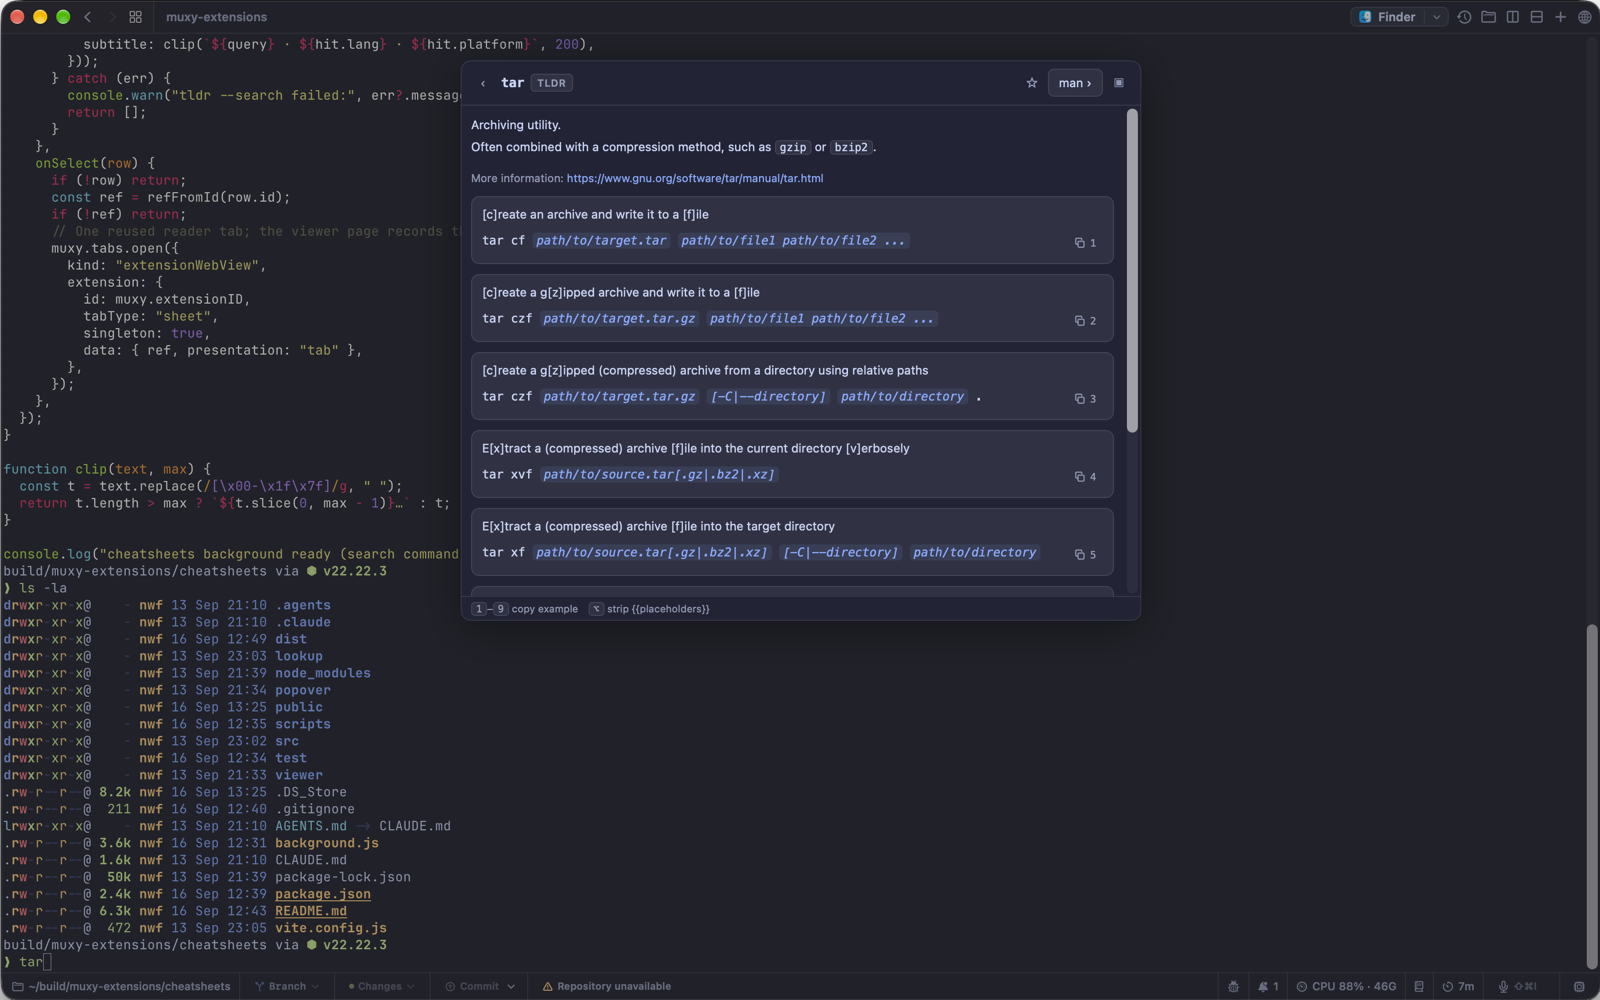
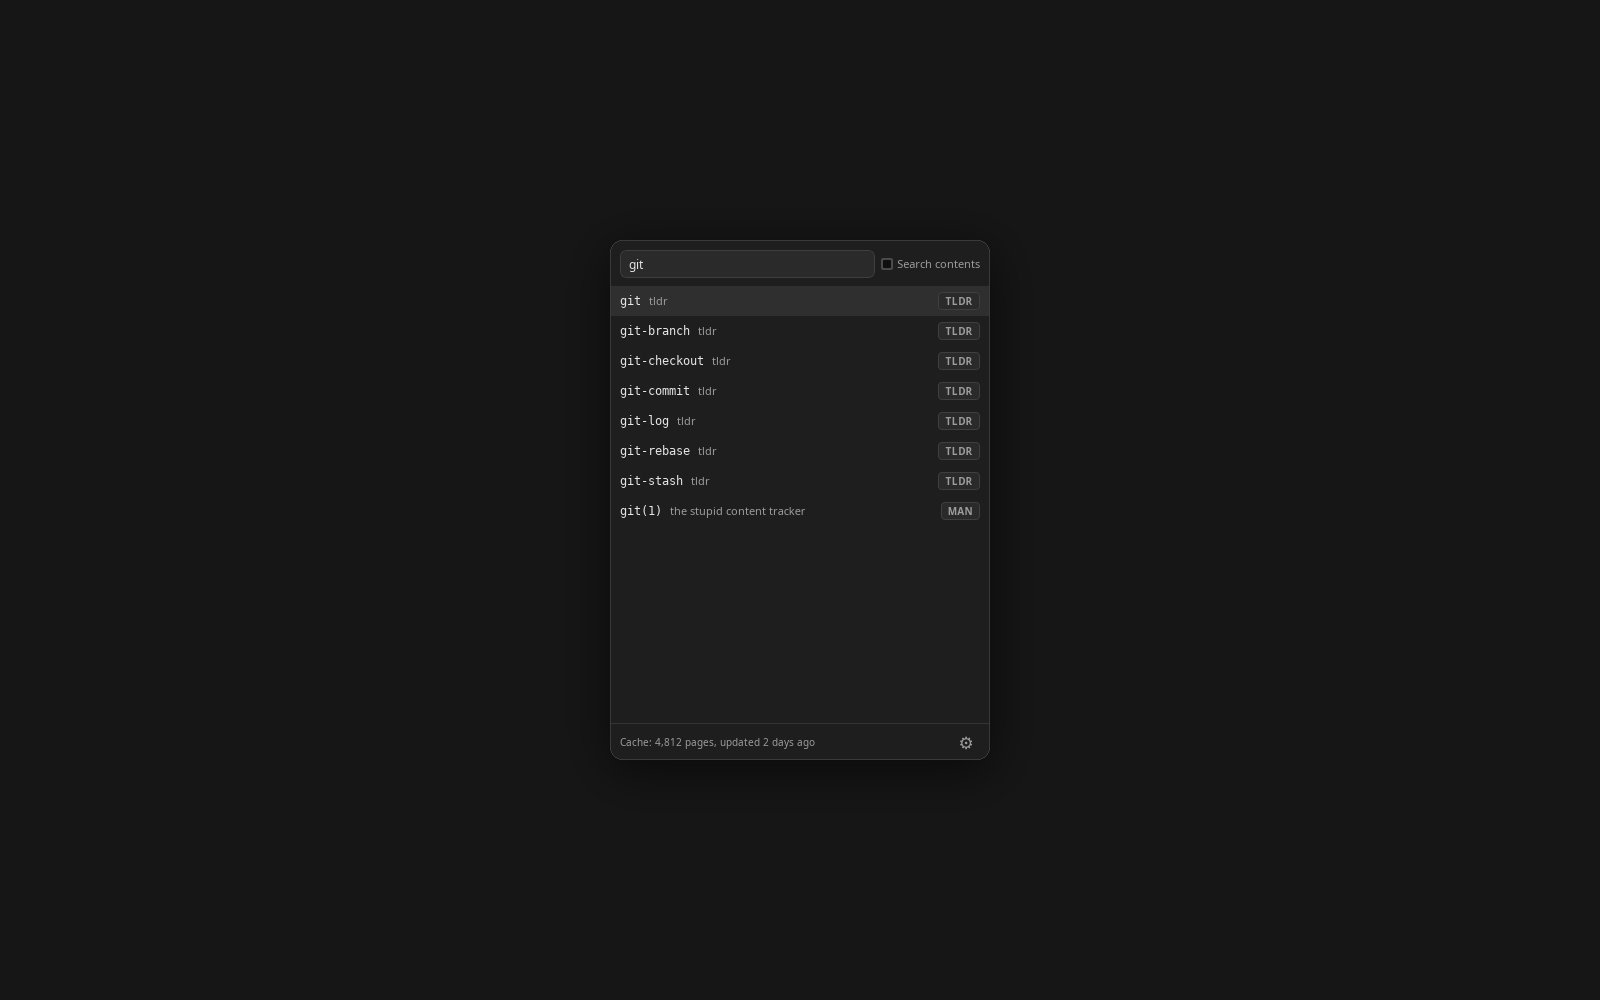
cheatsheets 1.0.1 (#26)
* cheatsheets 1.0.1: harness cases, credits, version bump

* cheatsheets: popover case searches git

* cheatsheets: replace listing screenshots with neutral renders

diff --git a/tools/harness/fixtures/cheatsheets.js b/tools/harness/fixtures/cheatsheets.js
@@ -1,0 +1,156 @@
+// Sample tldr and man data for the cheatsheets extension, served through atur.exec.
+(() => {
+  const h = window.__harness;
+
+  const TLDR_NAMES = [
+    "awk", "cat", "chmod", "cp", "curl", "cut", "df", "diff", "docker", "docker-compose", "du",
+    "find", "git", "git-branch", "git-checkout", "git-commit", "git-log", "git-rebase", "git-stash",
+    "grep", "gzip", "head", "jq", "kill", "ln", "ls", "make", "mkdir", "mv", "node", "npm", "ps",
+    "rsync", "scp", "sed", "sort", "ssh", "tail", "tar", "tmux", "uniq", "wc", "xargs",
+  ];
+
+  const MAN_ROWS = [
+    "tar(1) - manipulate tape archives", "tail(1) - display the last part of a file",
+    "tac(1) - concatenate and print files in reverse", "tee(1) - pipe fitting",
+    "tmux(1) - terminal multiplexer", "touch(1) - change file access and modification times",
+    "tr(1) - translate characters", "git(1) - the stupid content tracker", "grep(1) - file pattern searcher",
+    "open(2) - open or create a file for reading or writing", "ssh(1) - OpenSSH remote login client",
+  ];
+
+  const PAGES = {
+    tar: `# tar
+
+> Archiving utility.
+> Often combined with a compression method, such as \`gzip\` or \`bzip2\`.
+> More information: <https://www.gnu.org/software/tar>.
+
+- Create an archive and write it to a file:
+
+\`tar cf {{path/to/target.tar}} {{path/to/file1 path/to/file2 ...}}\`
+
+- Create a gzipped archive and write it to a file:
+
+\`tar czf {{path/to/target.tar.gz}} {{path/to/file1 path/to/file2 ...}}\`
+
+- Create a gzipped archive from a directory using relative paths:
+
+\`tar czf {{path/to/target.tar.gz}} --directory={{path/to/directory}} .\`
+
+- Extract a (compressed) archive file into the current directory verbosely:
+
+\`tar xvf {{path/to/source.tar[.gz|.bz2|.xz]}}\`
+
+- Extract a (compressed) archive file into the target directory:
+
+\`tar xf {{path/to/source.tar[.gz|.bz2|.xz]}} --directory={{path/to/directory}}\`
+
+- List the contents of a tar file verbosely:
+
+\`tar tvf {{path/to/source.tar}}\`
+
+- Extract files matching a pattern from an archive:
+
+\`tar xf {{path/to/source.tar}} --wildcards {{"*.html"}}\`
+`,
+    "git-stash": `# git stash
+
+> Stash local Git changes in a temporary area.
+> More information: <https://git-scm.com/docs/git-stash>.
+
+- Stash current changes, except new (untracked) files:
+
+\`git stash push -m {{optional_stash_message}}\`
+
+- Stash current changes, including new (untracked) files:
+
+\`git stash -u\`
+
+- Interactively select parts of changed files for stashing:
+
+\`git stash -p\`
+
+- List all stashes (shows stash name, related branch and message):
+
+\`git stash list\`
+
+- Show the changes as a patch between the stash (default is stash@{0}) and the commit back when stash entry was first created:
+
+\`git stash show -p {{stash@{0}}}\`
+
+- Apply a stash (default is the latest, named stash@{0}):
+
+\`git stash apply {{optional_stash_name_or_commit}}\`
+
+- Apply a stash (default is stash@{0}), and remove it from the stash list if applying doesn't cause conflicts:
+
+\`git stash pop {{optional_stash_name}}\`
+`,
+    docker: `# docker
+
+> Manage Docker containers and images.
+> Some subcommands such as \`docker run\` have their own usage documentation.
+> More information: <https://docs.docker.com/engine/reference/commandline/cli/>.
+
+- List all docker containers (running and stopped):
+
+\`docker ps --all\`
+
+- Start a container from an image, with a custom name:
+
+\`docker run --name {{container_name}} {{image}}\`
+
+- Start or stop an existing container:
+
+\`docker {{start|stop}} {{container_name}}\`
+
+- Pull an image from a docker registry:
+
+\`docker pull {{image}}\`
+
+- Open a shell inside of an already running container:
+
+\`docker exec --interactive --tty {{container_name}} {{sh}}\`
+
+- Remove a stopped container:
+
+\`docker rm {{container_name}}\`
+
+- Fetch and follow the logs of a container:
+
+\`docker logs --follow {{container_name}}\`
+`,
+  };
+
+  const ok = (stdout) => ({ stdout, stderr: "", exitCode: 0 });
+  const fail = (stderr) => ({ stdout: "", stderr, exitCode: 1 });
+
+  h.set("exec", async (argv) => {
+    const args = Array.isArray(argv) ? argv : [];
+    const cmd = args[0];
+    if (cmd === "pbpaste") return fail("");
+    if (cmd === "tldr") {
+      if (args.includes("--list") || args.includes("--list-all")) return ok(TLDR_NAMES.join("\n") + "\n");
+      if (args.includes("-i")) return ok("Cache: 4,812 pages, updated 2 days ago\n");
+      if (args.includes("--raw")) {
+        const page = PAGES[args[args.length - 1]];
+        return page ? ok(page) : fail("page not found");
+      }
+      return fail("");
+    }
+    if (cmd === "apropos") return ok(MAN_ROWS.join("\n") + "\n");
+    return fail("");
+  });
+
+  const sleep = (ms) => new Promise((resolve) => setTimeout(resolve, ms));
+  const until = async (test, tries = 100) => { for (let i = 0; i < tries && !test(); i += 1) await sleep(100); };
+  window.__cs = {
+    sleep, until,
+    type: async (text) => {
+      await until(() => document.querySelector("input[type=text]"));
+      const input = document.querySelector("input[type=text]");
+      input.value = text;
+      input.dispatchEvent(new Event("input", { bubbles: true }));
+      await until(() => document.querySelector("#results .row"));
+    },
+  };
+})();

diff --git a/tools/harness/fixtures/cheatsheets-popover.js b/tools/harness/fixtures/cheatsheets-popover.js
@@ -1,0 +1,10 @@
+// Popover: recents and favorites on the home view, then a search.
+window.addEventListener("load", async () => {
+  const { until, sleep, type } = window.__cs;
+  await atur.storage.set("favorites", [{ source: "tldr", name: "git-stash" }, { source: "tldr", name: "docker" }, { source: "man", name: "tmux", section: "1" }]);
+  await atur.storage.set("recents", [{ source: "tldr", name: "tar" }, { source: "man", name: "grep", section: "1" }, { source: "tldr", name: "jq" }]);
+  await sleep(300);
+  await type("git");
+  await sleep(500);
+  window.__ready = true;
+});

diff --git a/tools/harness/fixtures/cheatsheets-lookup.js b/tools/harness/fixtures/cheatsheets-lookup.js
@@ -1,0 +1,10 @@
+// Lookup modal: type "tar", open the tldr page.
+window.addEventListener("load", async () => {
+  const { until, sleep, type } = window.__cs;
+  await sleep(300);
+  await type("tar");
+  document.querySelector("#results .row").click();
+  await until(() => document.querySelector(".example"));
+  await sleep(500);
+  window.__ready = true;
+});

diff --git a/tools/harness/fixtures/cheatsheets-popover-read.js b/tools/harness/fixtures/cheatsheets-popover-read.js
@@ -1,0 +1,10 @@
+// Popover: reading a tldr page.
+window.addEventListener("load", async () => {
+  const { until, sleep, type } = window.__cs;
+  await sleep(300);
+  await type("docker");
+  document.querySelector("#results .row").click();
+  await until(() => document.querySelector(".example"));
+  await sleep(500);
+  window.__ready = true;
+});

diff --git a/extensions/cheatsheets/src/shared/parse.js b/extensions/cheatsheets/src/shared/parse.js
@@ -1,5 +1,5 @@
 // Pure parsers for everything the extension reads from subprocesses.
-// No DOM, no muxy — unit-testable under node --test.
+// No DOM, no host API — unit-testable under node --test.
 
 // ---------------------------------------------------------------------------
 // tldr page (raw markdown, per the tldr page spec)

diff --git a/extensions/cheatsheets/README.md b/extensions/cheatsheets/README.md
@@ -110,3 +110,7 @@ npm test          # parser / sanitizer / ref-codec unit tests
 
 Load the folder via **Load Unpacked** in Atur Terminal's Extensions modal; after a
 rebuild, click **Reload** there to pick up changes.
+
+## Credits
+
+Originally published in muxy-app/extensions (MIT) by Nick Fay. Maintained by Atur Terminal.
